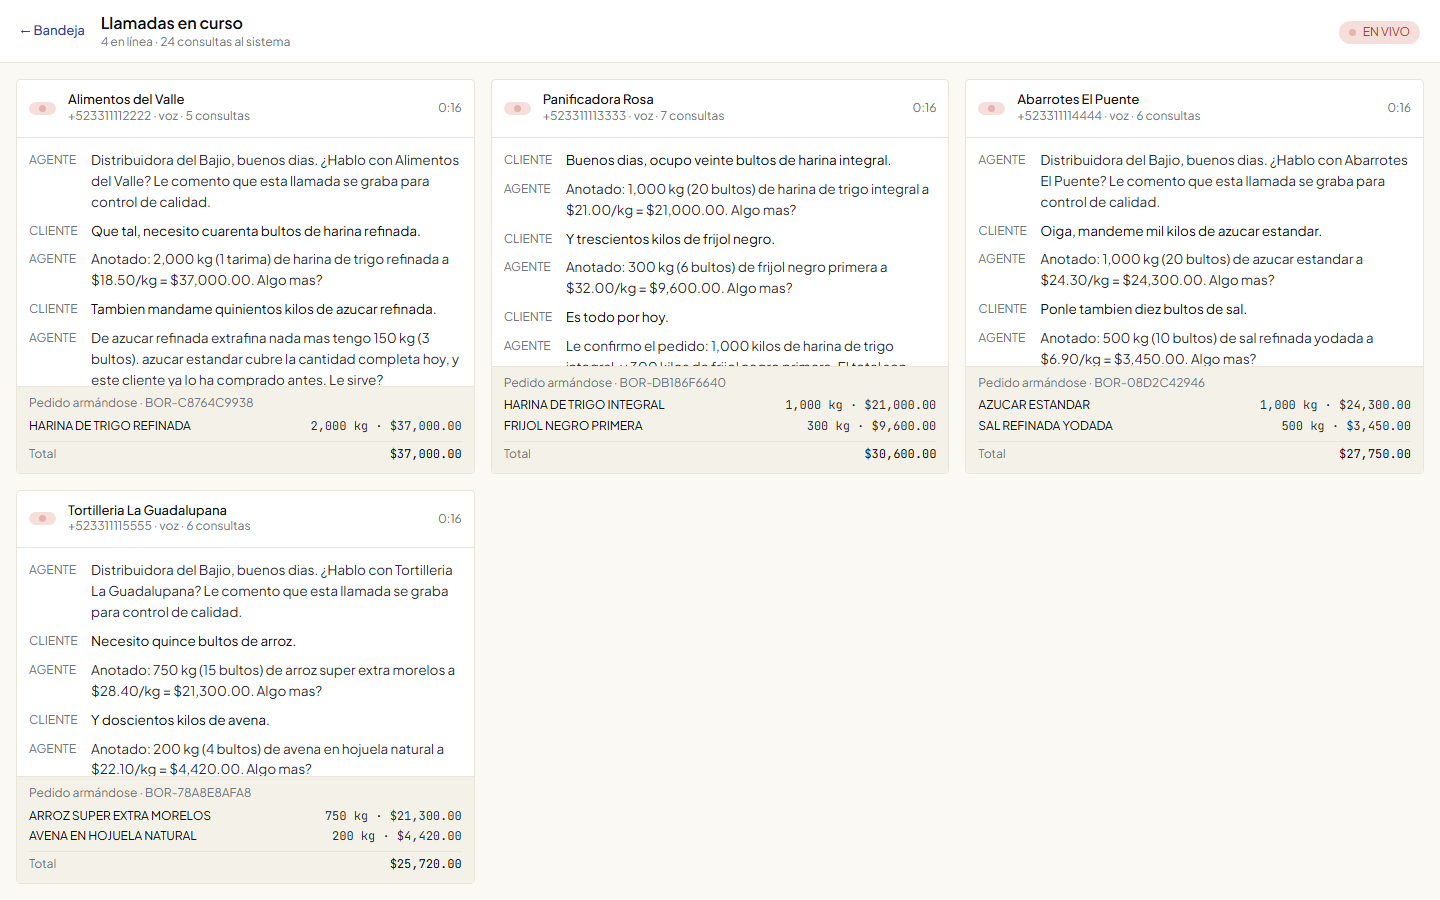
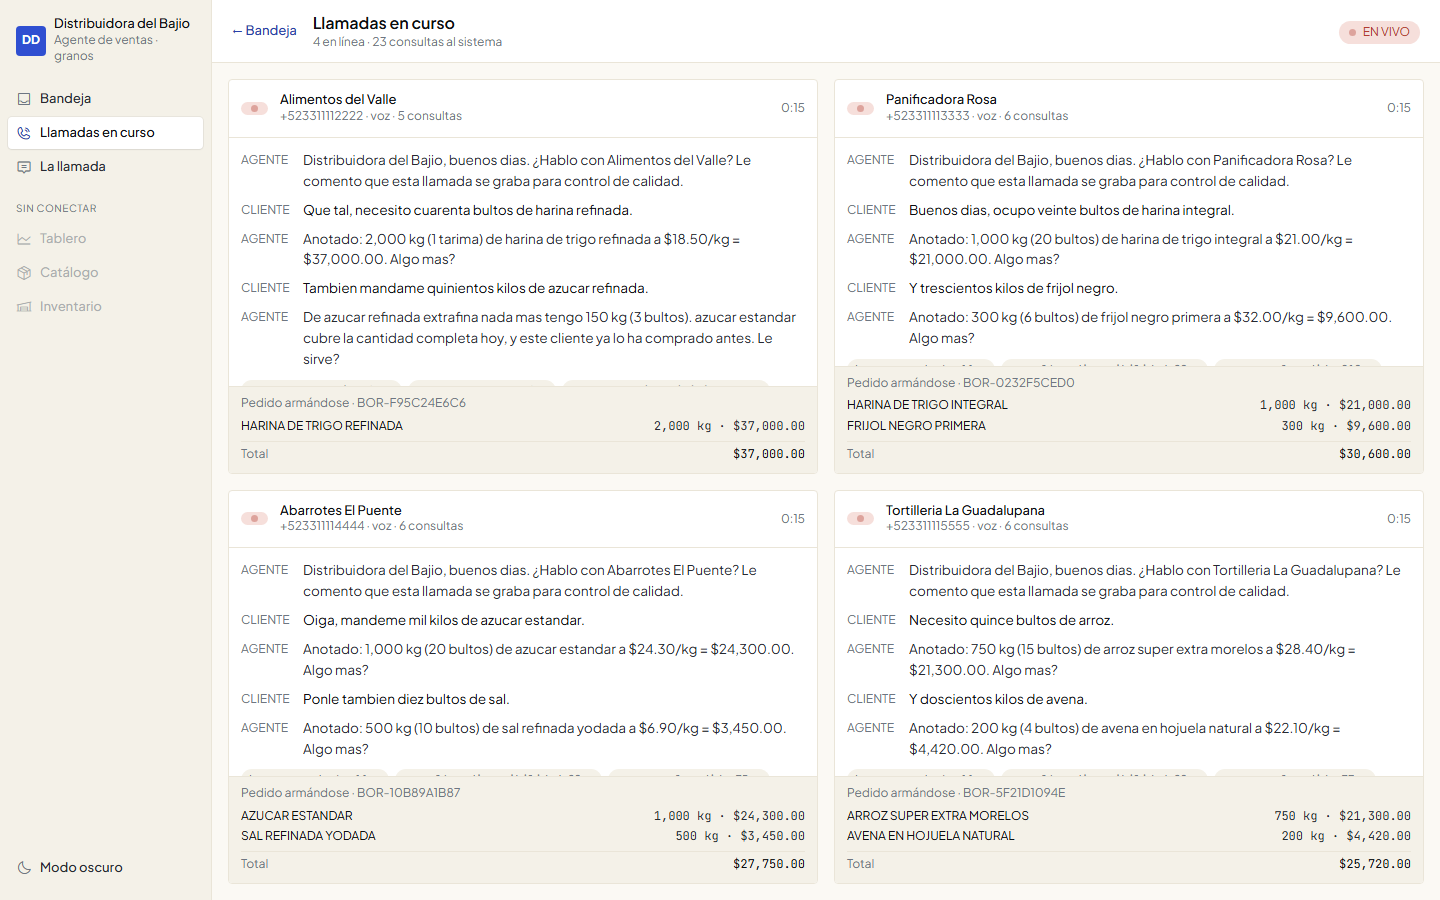
Viste las pantallas conectadas con el sistema de diseno
Las tres pantallas que leen de la API adoptan el sistema del diseno
(panel/ds/): barra lateral, tema claro y oscuro, tokens de color y
tipografia. No se toco ni una llamada a /api/ — el armazon se inyecta
alrededor del HTML que ya existia, para que el trabajo visual no pudiera
romper la logica de datos.

- panel/app/armazon.js + armazon.css: barra lateral de 212 px como en la
  maqueta, con las tres pantallas conectadas navegables y las tres que
  siguen siendo bocetos listadas aparte y en gris. Un panel que promete
  secciones que no existen se cae en la primera demostracion.
- El tema se guarda por navegador y arranca del que prefiera el sistema.
- Por debajo de 860 px la barra pasa abajo: el gerente de almacen anda con
  una tableta.

El nombre del negocio no quedo como valor de relleno. /api/yo lo devuelve
desde el paquete de giro, asi que el titulo del panel cambia solo cuando
cambia el giro. Al probarlo salio que el armazon pedia ese dato antes de
que existiera sesion —se monta antes del login— y la barra se quedaba con
un guion; ahora reintenta hasta que haya sesion.

Capturas regeneradas, mas una del modo oscuro.

diff --git a/panel/app/armazon.js b/panel/app/armazon.js
@@ -1,0 +1,143 @@
+// ---------------------------------------------------------------------------
+// Armazón del panel: barra lateral y tema, compartidos por las tres pantallas.
+//
+// Se inyecta ALREDEDOR de lo que ya existe. Cada pantalla conserva su HTML y
+// su lógica intactos — este módulo solo los envuelve. Así el trabajo visual no
+// puede romper una llamada a la API por accidente, que es exactamente lo que
+// no debe pasar al vestir algo que ya funciona.
+//
+// El diseño (colores, tipografía, espacios, el ancho de 212px de la barra) sale
+// del sistema en ds/. Aquí no se inventa ni un color.
+// ---------------------------------------------------------------------------
+
+// Solo las pantallas conectadas a la API son navegables. Las demás del diseño
+// original siguen siendo bocetos, y se listan como tales en vez de esconderse:
+// un panel que promete secciones que no existen se cae en la primera demo.
+const SECCIONES = [
+  {id: 'bandeja',      titulo: 'Bandeja',          icono: 'ph-tray',        url: 'index.html'},
+  {id: 'envivo',       titulo: 'Llamadas en curso', icono: 'ph-phone-call',  url: 'envivo.html'},
+  {id: 'conversacion', titulo: 'La llamada',       icono: 'ph-chat-centered-text', url: 'conversacion.html'},
+];
+
+const BOCETOS = [
+  {titulo: 'Tablero',    icono: 'ph-chart-line'},
+  {titulo: 'Catálogo',   icono: 'ph-package'},
+  {titulo: 'Inventario', icono: 'ph-warehouse'},
+];
+
+// El nombre sale del paquete de giro, vía /api/yo. El valor de abajo solo se
+// ve el instante antes de que llegue la respuesta.
+let NEGOCIO = '—';
+
+/** Pide el nombre del negocio en cuanto haya sesión.
+ *
+ *  El armazón se monta ANTES del login, así que en la primera pasada todavía
+ *  no hay token. En vez de acoplar este módulo al flujo de acceso de cada
+ *  pantalla, reintenta solo hasta que la sesión exista, y se detiene al
+ *  conseguirlo. Un panel que se queda con el nombre en blanco después de
+ *  entrar se ve a medio terminar.
+ */
+async function pedirNegocio(intentos = 30) {
+  let token = null;
+  try { token = sessionStorage.getItem('token'); } catch {}
+  if (!token) {
+    if (intentos > 0) setTimeout(() => pedirNegocio(intentos - 1), 500);
+    return;
+  }
+  try {
+    const r = await fetch('/api/yo', {headers: {'Authorization': 'Bearer ' + token}});
+    if (!r.ok) return;
+    const d = await r.json();
+    if (!d.negocio) return;
+
+    NEGOCIO = d.negocio;
+    const nombre = document.querySelector('.barra .nombre');
+    const logo = document.querySelector('.barra .logo');
+    if (nombre) nombre.textContent = NEGOCIO;
+    if (logo) logo.textContent = iniciales(NEGOCIO);
+    const giro = document.querySelector('.barra .giro');
+    if (giro && d.giro) giro.textContent = `Agente de ventas · ${d.giro}`;
+  } catch {
+    if (intentos > 0) setTimeout(() => pedirNegocio(intentos - 1), 500);
+  }
+}
+
+const iniciales = n => n.split(' ').filter(p => p.length > 2)
+  .map(p => p[0]).slice(0, 2).join('').toUpperCase();
+
+const CLAVE_TEMA = 'panel-tema';
+
+function temaGuardado() {
+  try { return localStorage.getItem(CLAVE_TEMA); } catch { return null; }
+}
+
+function aplicarTema(tema) {
+  document.documentElement.setAttribute('data-theme', tema);
+  try { localStorage.setItem(CLAVE_TEMA, tema); } catch {}
+  const boton = document.getElementById('cambiar-tema');
+  if (boton) {
+    boton.innerHTML = tema === 'dark'
+      ? '<i class="ph ph-sun"></i>Modo claro'
+      : '<i class="ph ph-moon"></i>Modo oscuro';
+  }
+}
+
+/** Envuelve la página en el armazón. `activa` es el id de la sección actual. */
+export function montarArmazon(activa) {
+  // El tema se fija antes de pintar, para que no haya un parpadeo claro.
+  aplicarTema(temaGuardado()
+    || (matchMedia('(prefers-color-scheme: dark)').matches ? 'dark' : 'light'));
+
+  const contenido = document.createElement('main');
+  contenido.className = 'contenido';
+  while (document.body.firstChild) {
+    const nodo = document.body.firstChild;
+    if (nodo.nodeType === 1 && nodo.tagName === 'SCRIPT') {
+      // Los scripts se quedan donde están: moverlos los re-ejecuta.
+      document.body.appendChild(nodo);
+      break;
+    }
+    contenido.appendChild(nodo);
+  }
+
+  const marco = document.createElement('div');
+  marco.className = 'marco';
+  marco.innerHTML = `
+    <aside class="barra">
+      <div class="negocio">
+        <div class="logo">${iniciales(NEGOCIO)}</div>
+        <div style="min-width:0">
+          <div class="nombre">${NEGOCIO}</div>
+          <div class="giro">Agente de ventas</div>
+        </div>
+      </div>
+
+      <nav>
+        ${SECCIONES.map(s => `
+          <a href="${s.url}" class="enlace ${s.id === activa ? 'activo' : ''}">
+            <i class="ph ${s.icono}"></i>${s.titulo}
+          </a>`).join('')}
+      </nav>
+
+      <div class="grupo">Sin conectar</div>
+      <nav>
+        ${BOCETOS.map(b => `
+          <span class="enlace boceto" title="Boceto de diseño; todavía no lee de la API">
+            <i class="ph ${b.icono}"></i>${b.titulo}
+          </span>`).join('')}
+      </nav>
+
+      <div style="flex:1"></div>
+      <button id="cambiar-tema" class="enlace" type="button"></button>
+    </aside>`;
+
+  marco.appendChild(contenido);
+  document.body.prepend(marco);
+
+  const boton = document.getElementById('cambiar-tema');
+  boton.onclick = () => aplicarTema(
+    document.documentElement.getAttribute('data-theme') === 'dark' ? 'light' : 'dark');
+  aplicarTema(document.documentElement.getAttribute('data-theme'));
+
+  pedirNegocio();
+}

diff --git a/panel/app/armazon.css b/panel/app/armazon.css
@@ -1,0 +1,56 @@
+/* Armazón del panel: barra lateral y marco.
+   Todo sale de los tokens de ds/ — ni un color literal. */
+
+.marco{display:flex;height:100vh;overflow:hidden;background:var(--surface-page)}
+
+.contenido{flex:1;min-width:0;display:flex;flex-direction:column;overflow:hidden}
+
+/* 212px es el ancho de la barra en el diseño original. */
+.barra{width:212px;flex:none;display:flex;flex-direction:column;gap:2px;
+       padding:var(--space-6) var(--space-4);
+       background:var(--surface-sunken);border-right:1px solid var(--border-subtle)}
+
+.negocio{display:flex;align-items:center;gap:var(--space-4);
+         padding:0 var(--space-4) var(--space-6)}
+.logo{width:30px;height:30px;flex:none;border-radius:var(--radius-md);
+      background:var(--surface-accent);color:var(--text-on-accent);
+      display:flex;align-items:center;justify-content:center;
+      font:var(--text-caption);font-weight:700;letter-spacing:.02em}
+.nombre{font:var(--text-label);color:var(--text-strong);
+        overflow:hidden;text-overflow:ellipsis;white-space:nowrap}
+.giro{font:var(--text-caption);color:var(--text-muted)}
+
+.barra nav{display:flex;flex-direction:column;gap:2px}
+
+.enlace{display:flex;align-items:center;gap:var(--space-4);
+        height:32px;padding:0 var(--space-4);border:0;width:100%;
+        border-radius:var(--radius-md);background:transparent;
+        font:var(--text-label);color:var(--text-body);
+        text-decoration:none;cursor:pointer;text-align:left}
+.enlace:hover{background:var(--surface-hover);color:var(--text-strong);
+              text-decoration:none}
+.enlace i{font-size:16px;color:var(--text-muted)}
+
+.enlace.activo{background:var(--surface-card);color:var(--text-strong);
+               box-shadow:var(--shadow-raised)}
+.enlace.activo i{color:var(--text-accent)}
+
+/* Los bocetos se ven, pero se ven apagados y no se pueden abrir. */
+.enlace.boceto{color:var(--text-muted);cursor:default;opacity:.55}
+.enlace.boceto:hover{background:transparent}
+
+.grupo{padding:var(--space-6) var(--space-4) var(--space-3);
+       font:var(--text-caption);color:var(--text-muted);
+       text-transform:uppercase;letter-spacing:.06em;font-size:10px}
+
+/* La barra se va abajo en pantallas angostas: el gerente de almacén anda con
+   una tableta, no con un monitor. */
+@media (max-width:860px){
+  .marco{flex-direction:column-reverse}
+  .barra{width:auto;flex-direction:row;gap:var(--space-3);overflow-x:auto;
+         border-right:0;border-top:1px solid var(--border-subtle);
+         padding:var(--space-4)}
+  .barra .negocio,.barra .grupo,.barra .boceto{display:none}
+  .barra nav{flex-direction:row;gap:2px}
+  .enlace{width:auto;white-space:nowrap}
+}

diff --git a/panel/app/index.html b/panel/app/index.html
@@ -5,12 +5,12 @@
 <meta name="viewport" content="width=device-width, initial-scale=1">
 <title>Bandeja de aprobación</title>
 <link rel="stylesheet" href="../ds/styles.css">
+<link rel="stylesheet" href="armazon.css">
 <style>
   /* Solo lo que el design system no cubre: el armazón de esta pantalla.
      Todo color, espacio y tipografía sale de los tokens de ds/. */
   *{box-sizing:border-box}
-  body{margin:0;background:var(--surface-page);color:var(--text-body);
-       height:100vh;display:flex;flex-direction:column;overflow:hidden}
+  body{margin:0;background:var(--surface-page);color:var(--text-body)}
 
   header{flex:none;display:flex;flex-wrap:wrap;align-items:center;
          gap:var(--space-5) var(--space-8);
@@ -141,6 +141,9 @@
 </footer>
 
 <script type="module">
+import { montarArmazon } from './armazon.js';
+montarArmazon('bandeja');
+
 // ---------------------------------------------------------------------------
 // Bandeja de aprobación, conectada a la API real.
 //

diff --git a/panel/app/envivo.html b/panel/app/envivo.html
@@ -5,10 +5,10 @@
 <meta name="viewport" content="width=device-width, initial-scale=1">
 <title>Llamadas en curso</title>
 <link rel="stylesheet" href="../ds/styles.css">
+<link rel="stylesheet" href="armazon.css">
 <style>
   *{box-sizing:border-box}
-  body{margin:0;background:var(--surface-page);color:var(--text-body);
-       height:100vh;display:flex;flex-direction:column;overflow:hidden}
+  body{margin:0;background:var(--surface-page);color:var(--text-body)}
 
   header{flex:none;display:flex;align-items:center;gap:var(--space-6);
          padding:var(--space-5) var(--space-7);
@@ -76,6 +76,9 @@
 <div class="tablero" id="tablero"></div>
 
 <script type="module">
+import { montarArmazon } from './armazon.js';
+montarArmazon('envivo');
+
 // ---------------------------------------------------------------------------
 // Las llamadas que están ocurriendo ahora.
 //

diff --git a/panel/app/conversacion.html b/panel/app/conversacion.html
@@ -5,10 +5,10 @@
 <meta name="viewport" content="width=device-width, initial-scale=1">
 <title>La llamada</title>
 <link rel="stylesheet" href="../ds/styles.css">
+<link rel="stylesheet" href="armazon.css">
 <style>
   *{box-sizing:border-box}
-  body{margin:0;background:var(--surface-page);color:var(--text-body);
-       height:100vh;display:flex;flex-direction:column;overflow:hidden}
+  body{margin:0;background:var(--surface-page);color:var(--text-body)}
 
   header{flex:none;display:flex;align-items:center;gap:var(--space-6);
          padding:var(--space-5) var(--space-7);
@@ -76,6 +76,9 @@
 </div>
 
 <script type="module">
+import { montarArmazon } from './armazon.js';
+montarArmazon('conversacion');
+
 // ---------------------------------------------------------------------------
 // La llamada, con el pedido enlazado renglón por renglón.
 //

diff --git a/scripts/capturas.py b/scripts/capturas.py
@@ -56,7 +56,10 @@ async def capturar() -> None:
         await pagina.fill('#form-login input[name="password"]', CLAVE)
         await pagina.click('#form-login button[type="submit"]')
         await pagina.wait_for_selector(".fila", timeout=15000)
-        await pagina.wait_for_timeout(800)
+        await pagina.wait_for_function(
+            "document.querySelector('.barra .nombre')?.textContent.trim() !== '—'",
+            timeout=10000)
+        await pagina.wait_for_timeout(600)
         await pagina.screenshot(path=SALIDA / "2-bandeja.png")
         print("  2-bandeja.png")
 
@@ -88,6 +91,16 @@ async def capturar() -> None:
             print("  5-llamadas-en-curso.png")
         except Exception:
             print("  5-llamadas-en-curso.png  (omitida: no habia llamadas activas)")
+
+        # --- 6. La misma bandeja en modo oscuro --------------------------
+        # El sistema de diseno trae los dos temas; conviene probar que el
+        # panel de verdad los respeta, no solo que existen los tokens.
+        await pagina.goto(f"{BASE}/panel/app/index.html")
+        await pagina.wait_for_selector(".fila", timeout=15000)
+        await pagina.click("#cambiar-tema")
+        await pagina.wait_for_timeout(700)
+        await pagina.screenshot(path=SALIDA / "6-modo-oscuro.png")
+        print("  6-modo-oscuro.png")
 
         await navegador.close()
 

diff --git a/src/agente/canales/panel.py b/src/agente/canales/panel.py
@@ -24,6 +24,7 @@ from pydantic import BaseModel
 
 from .. import auditoria, catalogo, db, inventario, metricas, pedidos, seguridad
 from ..config import CFG
+from ..giro import cargar_giro
 
 app = FastAPI(
     title="Panel del agente de ventas",
@@ -92,8 +93,20 @@ def salir(sesion: dict = Depends(sesion_actual)) -> dict:
 
 @app.get("/api/yo", tags=["sesion"])
 def yo(sesion: dict = Depends(sesion_actual)) -> dict:
-    return {"usuario": sesion["usuario"], "rol": sesion["rol"],
-            "vence_en": sesion["vence_en"]}
+    """Quien eres y para que negocio trabajas.
+
+    El nombre del negocio sale del paquete de giro, no de una constante en el
+    frontend: si manana este mismo panel atiende a una ferreteria, el titulo
+    cambia solo.
+    """
+    g = cargar_giro()
+    return {
+        "usuario": sesion["usuario"],
+        "rol": sesion["rol"],
+        "vence_en": sesion["vence_en"],
+        "negocio": g.get("empresa", CFG.tenant),
+        "giro": CFG.giro,
+    }
 
 
 if _origenes:

diff --git a/docs/hoja-de-datos.md b/docs/hoja-de-datos.md
@@ -123,6 +123,20 @@ La pantalla descarta llamadas sin señal en tres minutos: una conversación que 
 cortó sin avisar deja de listarse en vez de aparecer como si el cliente siguiera
 en la línea.
 
+## Sobre el diseño
+
+Las tres pantallas conectadas usan el sistema de diseño entregado por el
+diseñador (`panel/ds/`): sus tokens de color, tipografía, espaciado y
+elevación, sin modificar. La barra lateral y el selector de tema siguen el
+layout de su maqueta.
+
+Ningún dato de pantalla es un valor de relleno: el nombre del negocio y el giro
+salen del paquete de giro vía `/api/yo`, así que cambiar de granos a ferretería
+cambia también el título del panel.
+
+Los dos temas funcionan (`docs/capturas/6-modo-oscuro.png`). La barra pasa a la
+parte inferior por debajo de 860 px de ancho.
+
 ## Qué NO se puede afirmar de este proyecto
 
 Para no exagerar:
